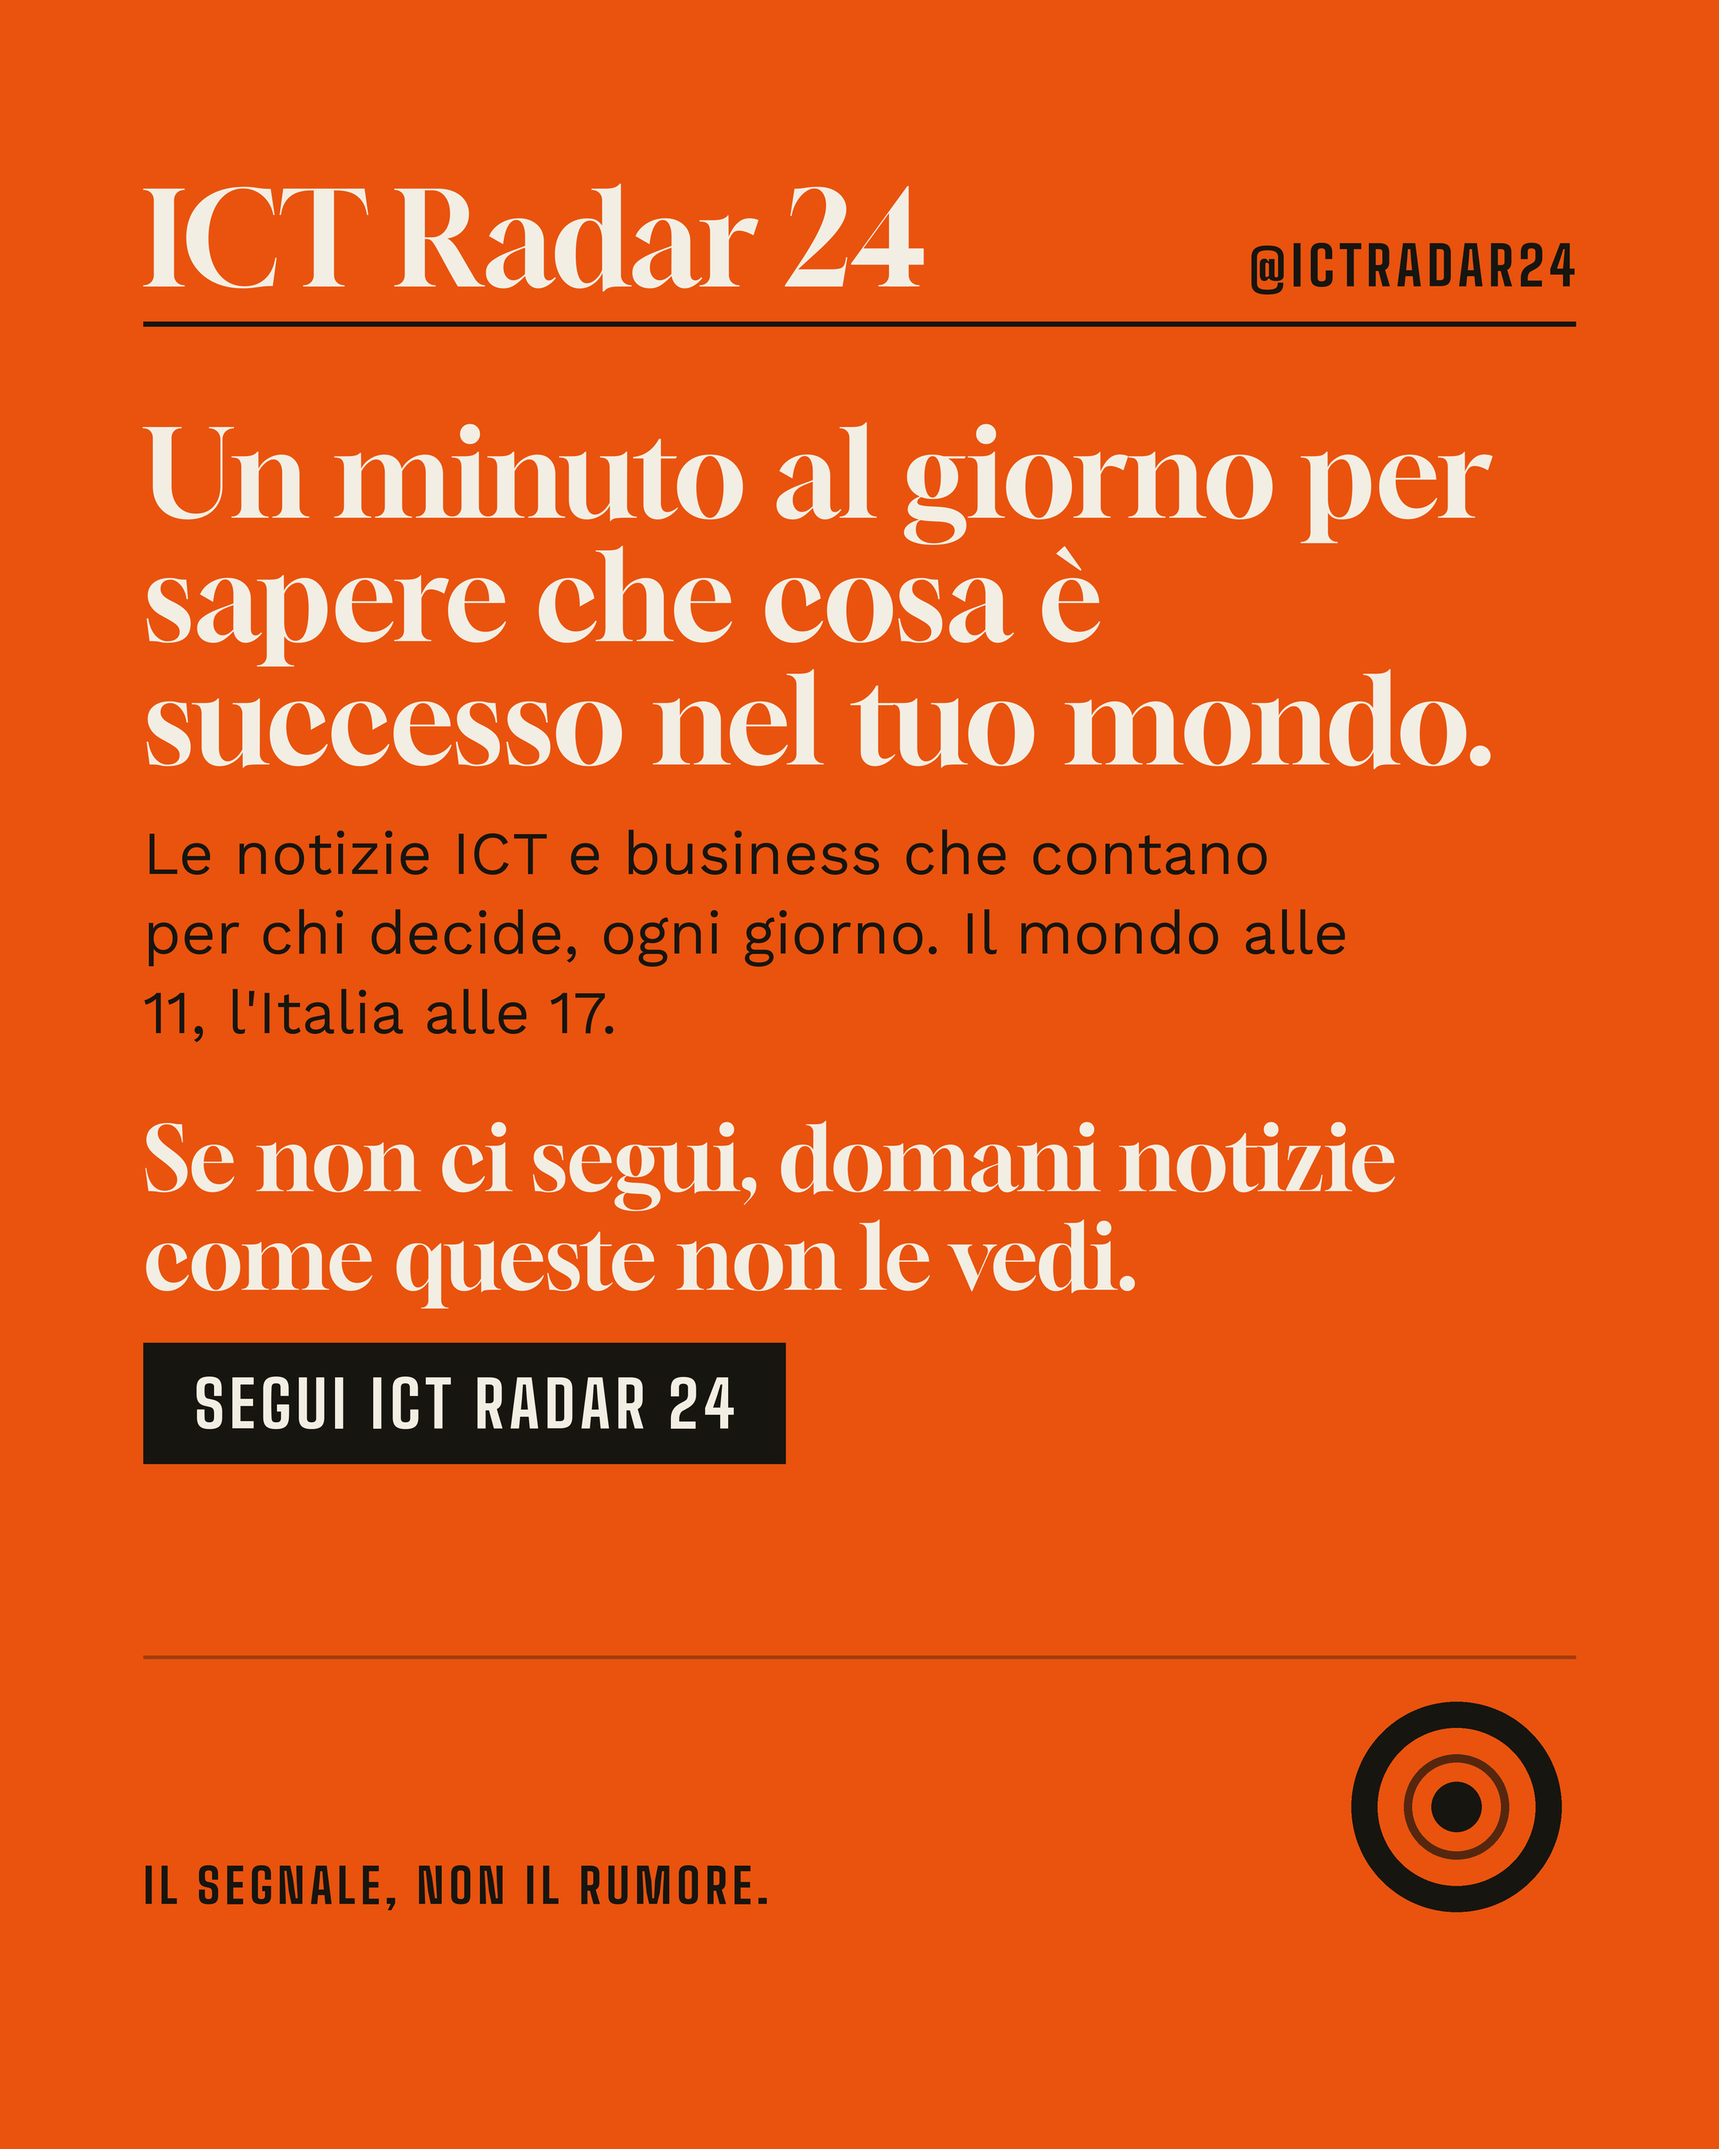
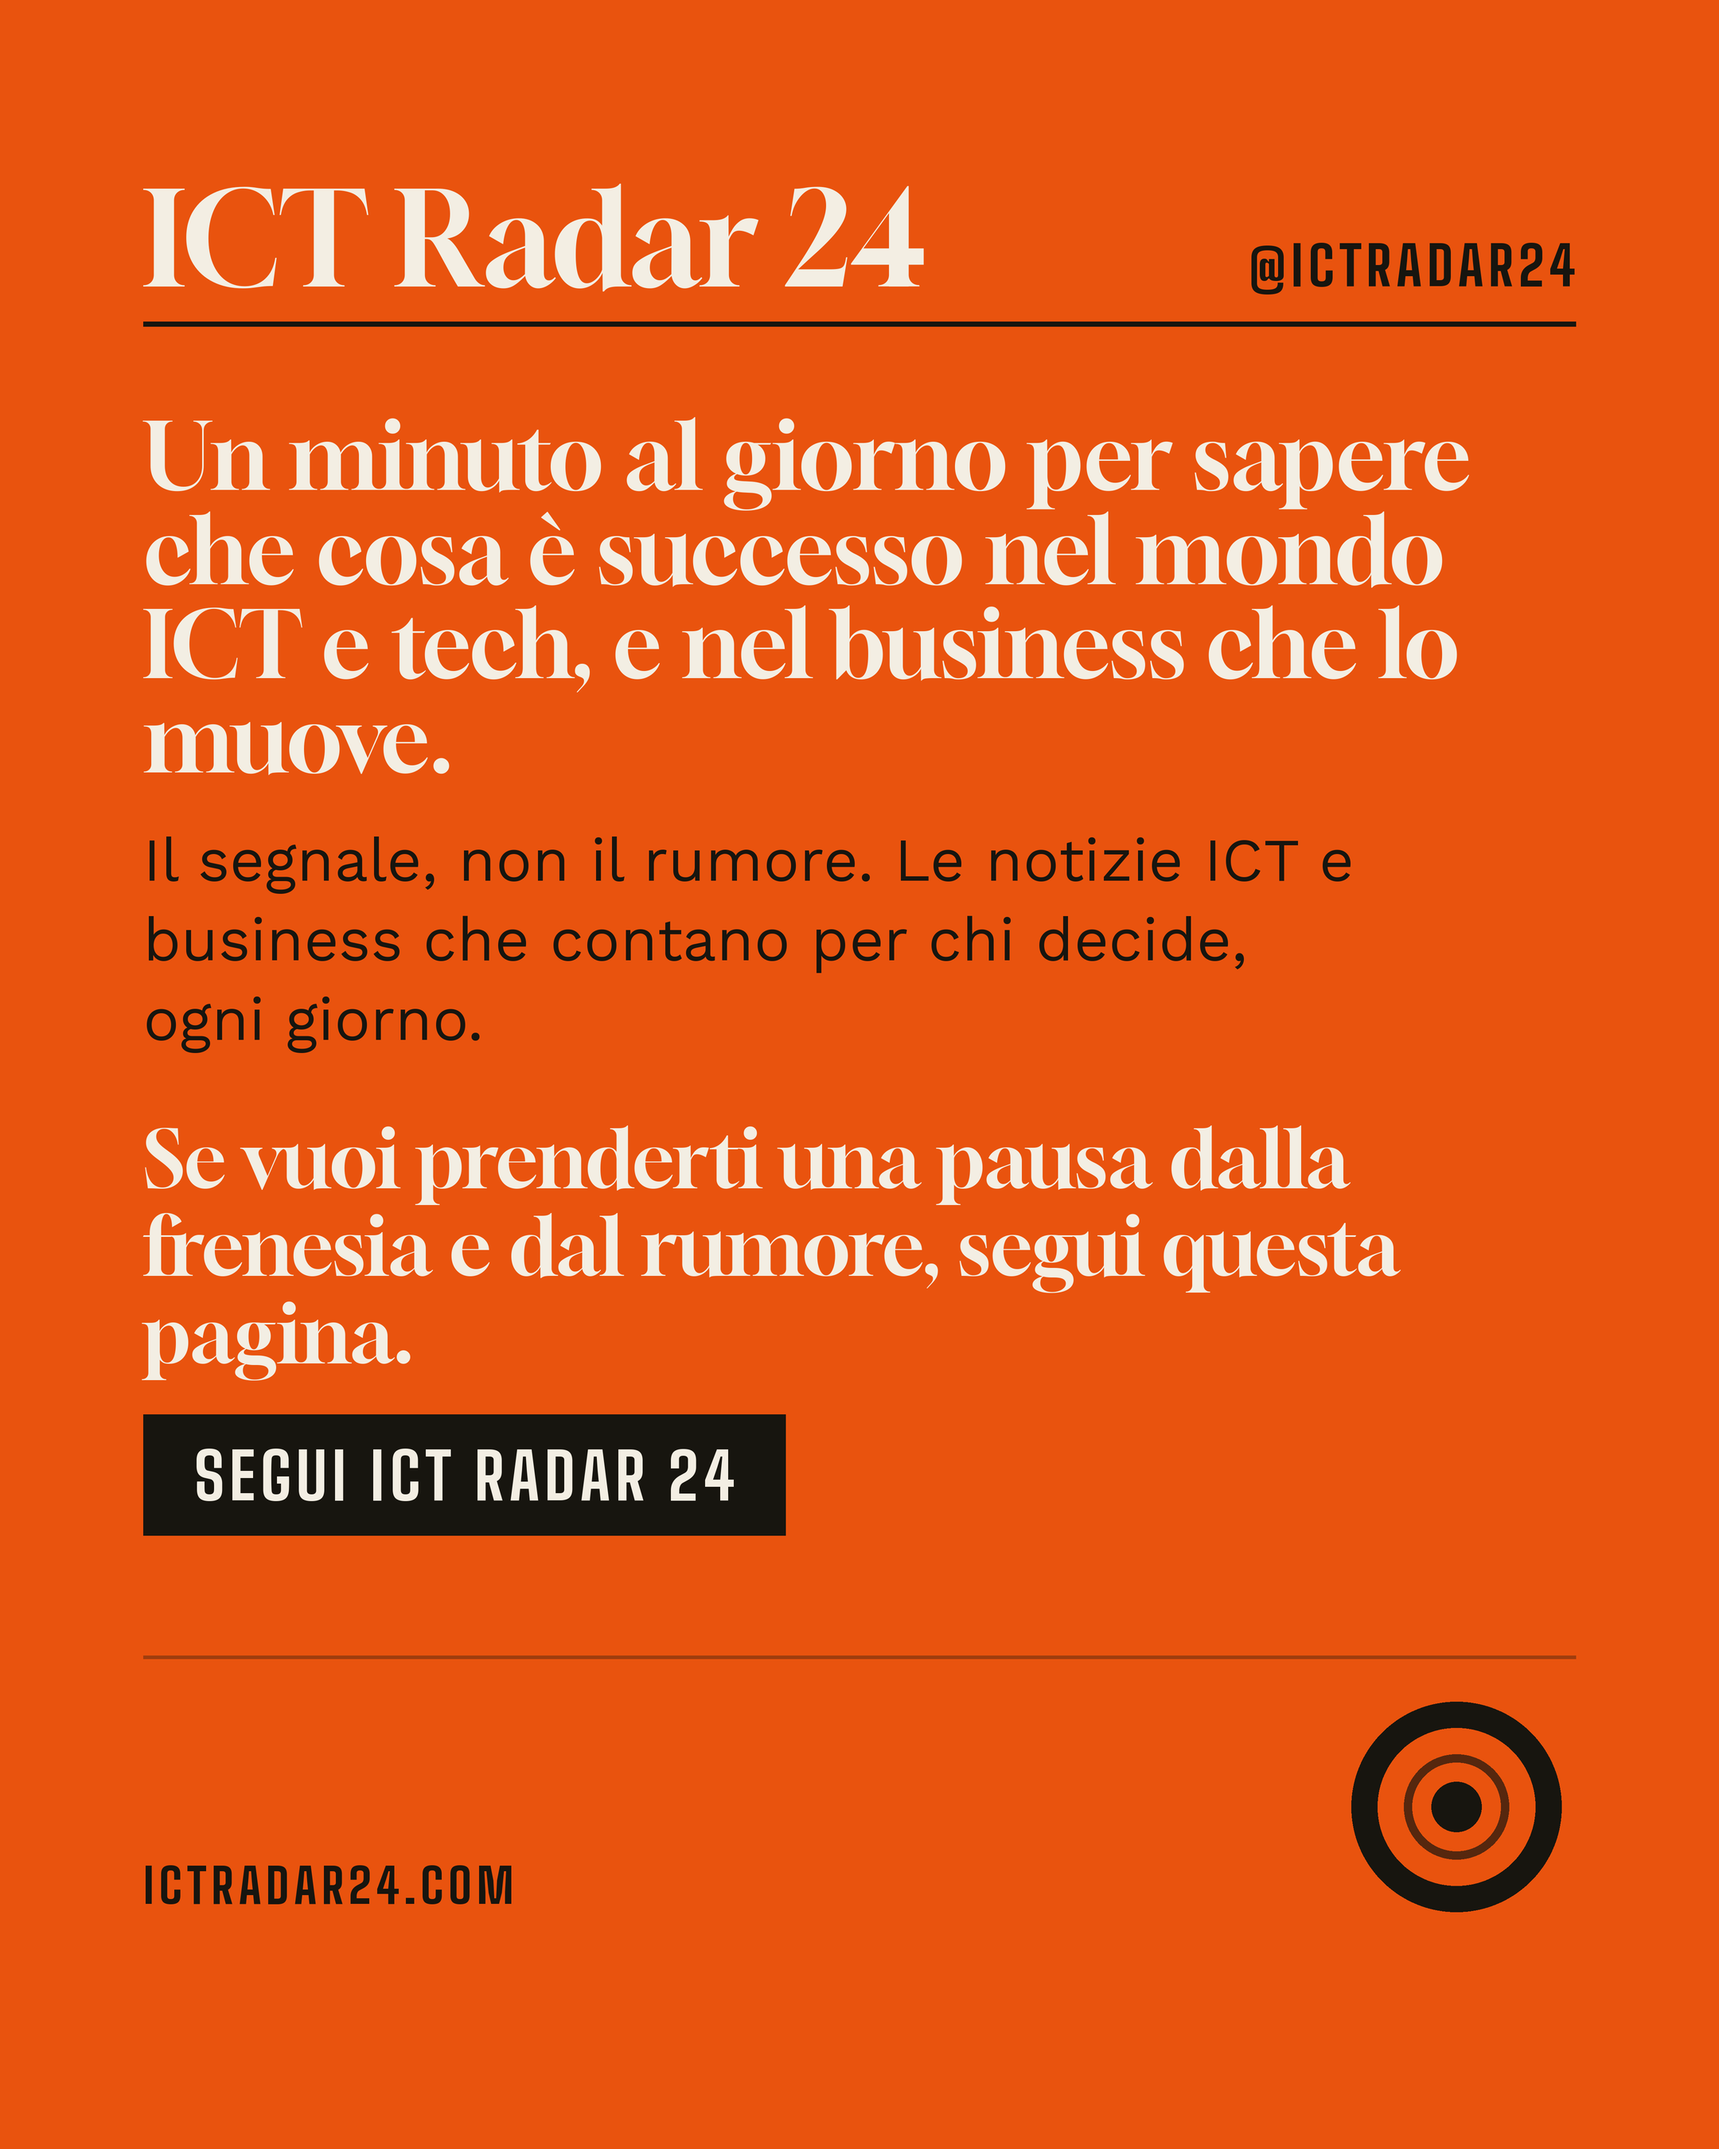
Chiusura «segui»: testo deciso da Simone (mondo ICT e tech, tagline LinkedIn, pausa dal rumore); la slide si adatta al testo

Changed region(s): [[0.062, 0.1867, 0.8685, 0.4978], [0.062, 0.5289, 0.8065, 0.7156], [0.0931, 0.8711, 0.4343, 0.9022]]

diff --git a/produzione/render.py b/produzione/render.py
@@ -609,30 +609,43 @@ def slide_segui(s, fmt, rub, n, tot, chiave):
 
     NON si rigenera a ogni uscita: i due PNG stanno in media/fisse/ e la procedura
     quotidiana ne accoda l'URL (manuale §4.4). Il blip è al centro: ricevuto.
+    Il blocco di testo si adatta: il titolo scende di corpo finché titolo, corpo,
+    chiusura e bottone stanno sopra il filetto del piede.
     """
     img, d = canvas(fmt, SEG)
     ml, maxw = fmt["ML"], fmt["W"] - fmt["ML"] * 2
     storia = fmt is STORIA
     testata(d, fmt, SEG, fmt["MT"] + 60, 82)
     spaziato_dx(d, fmt["W"] - ml, fmt["MT"] + 60, "@ICTRADAR24", f(TAB, 34), INK, 3)
-    y = filetto(d, fmt, fmt["MT"] + 82, "semplice", SEG)
-    y += (90 if storia else 46)
-    tit = 92 if storia else 76
-    y = blocco(d, ml, y, s["titolo"], f(TESTATA, tit), CARTA, tit * 1.02, maxw)
-    y = blocco(d, ml, y + (42 if storia else 30), s["corpo"], f(TESTO, 40 if storia else 38), INK, 55 if storia else 50, maxw - 120)
-    y = blocco(d, ml, y + (40 if storia else 30), s["cta"], f(TESTATA, 56), CARTA, 62, maxw)
+    y0 = filetto(d, fmt, fmt["MT"] + 82, "semplice", SEG) + (90 if storia else 46)
+    y_f = fmt["H"] - fmt["MB"] - 170
+    corpi_tit = [92, 84, 76, 70, 64] if storia else [76, 70, 64, 58, 54]
+    g1, g2, g3 = (42, 40, 34) if storia else (30, 30, 26)
+    f_corpo, i_corpo = (f(TESTO, 40), 55) if storia else (f(TESTO, 38), 50)
+    h_bottone = 76 if s.get("bottone") else 0
+    for tit in corpi_tit:
+        f_tit, f_cta = f(TESTATA, tit), f(TESTATA, min(56, tit - 8))
+        i_cta = min(62, tit - 8) * 1.1
+        h = (altezza(d, s["titolo"], f_tit, tit * 1.02, maxw) + g1
+             + altezza(d, s["corpo"], f_corpo, i_corpo, maxw - 120) + g2
+             + altezza(d, s["cta"], f_cta, i_cta, maxw) + (g3 + h_bottone if h_bottone else 0))
+        if y0 + h <= y_f - 40:
+            break
+    y = blocco(d, ml, y0, s["titolo"], f_tit, CARTA, tit * 1.02, maxw)
+    y = blocco(d, ml, y + g1, s["corpo"], f_corpo, INK, i_corpo, maxw - 120)
+    y = blocco(d, ml, y + g2, s["cta"], f_cta, CARTA, i_cta, maxw)
     if s.get("bottone"):
         # il «bottone»: un rettangolo inchiostro con il testo in Carta, come i pulsanti del sito
         t = s["bottone"].upper()
         fb = f(TAB, 40)
         larg = larghezza_spaziata(d, t, fb, 3) + 64
-        y0 = y + (34 if storia else 26)
-        d.rectangle([ml * SS, y0 * SS, (ml + larg) * SS, (y0 + 76) * SS], fill=INK)
-        spaziato(d, ml + 32, y0 + 54, t, fb, CARTA, 3)
-    y_f = fmt["H"] - fmt["MB"] - 170
+        yb = y + g3
+        d.rectangle([ml * SS, yb * SS, (ml + larg) * SS, (yb + 76) * SS], fill=INK)
+        spaziato(d, ml + 32, yb + 54, t, fb, CARTA, 3)
     d.rectangle([ml * SS, y_f * SS, (fmt["W"] - ml) * SS, (y_f + 2) * SS], fill=mix(INK, SEG, 0.35))
     marchio(d, fmt["W"] - ml - 150, fmt["H"] - fmt["MB"] - 150, 150, INK, SEG, "centro")
-    spaziato(d, ml, fmt["H"] - fmt["MB"] - 14, "IL SEGNALE, NON IL RUMORE.", f(TAB, 30), INK, 3)
+    # il piede porta il sito: il payoff sta già nel corpo, che è la tagline dei profili
+    spaziato(d, ml, fmt["H"] - fmt["MB"] - 14, "ICTRADAR24.COM", f(TAB, 30), INK, 3)
     return img
 
 
